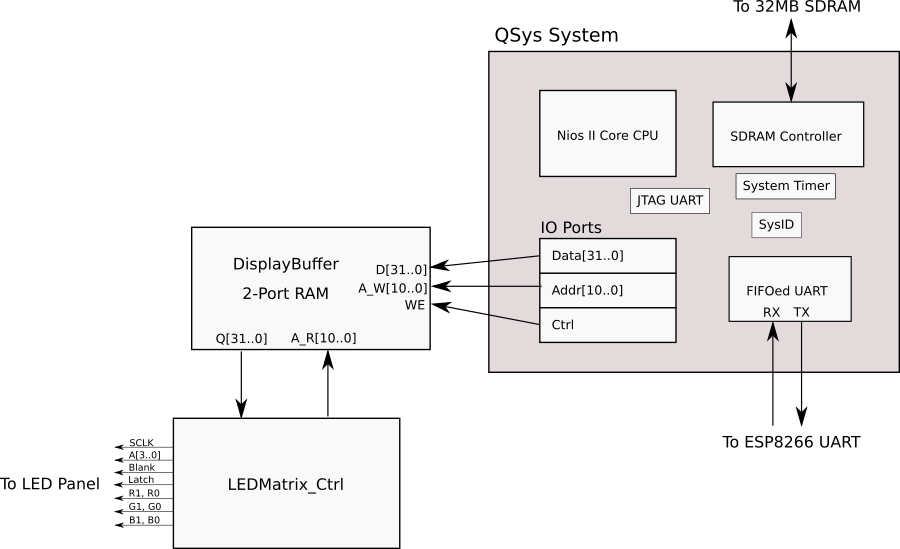
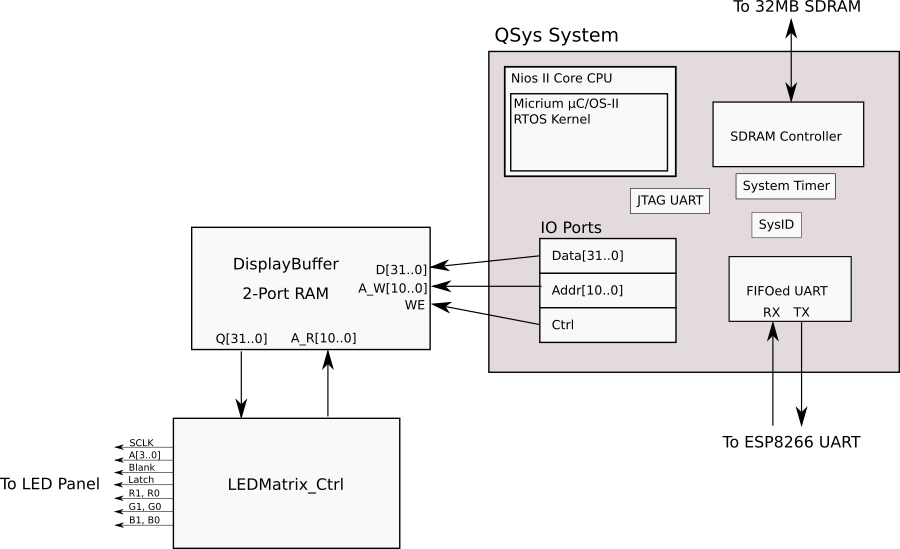
Updated README and the FPGA diagram to show the Micrium RTOS is used

Changed region(s): [[0.56, 0.0929, 0.7778, 0.3406]]

diff --git a/README.md b/README.md
@@ -1,6 +1,6 @@
 # LEDTile
 
-This is an FPGA-driven WiFi connected 32x32 LED tile that I hang on my wall.  Uses a Terasic DE0-Nano FPGA with a Nios II core soft CPU, a custom circuitboard, and an ESP8266 serving an HTTP API for controlling it.
+This is an FPGA-driven WiFi connected 32x32 LED tile that I hang on my wall.  Uses a Terasic DE0-Nano FPGA with a Nios II core soft CP running the Micrium μC/OS-II RTOS kernel, a custom circuitboard, and an ESP8266 serving an HTTP API for controlling it.
 
 New ESP8266 firmware can be done over the air, but the FPGA configuration and Nios II are loaded over a USB cable.
 
